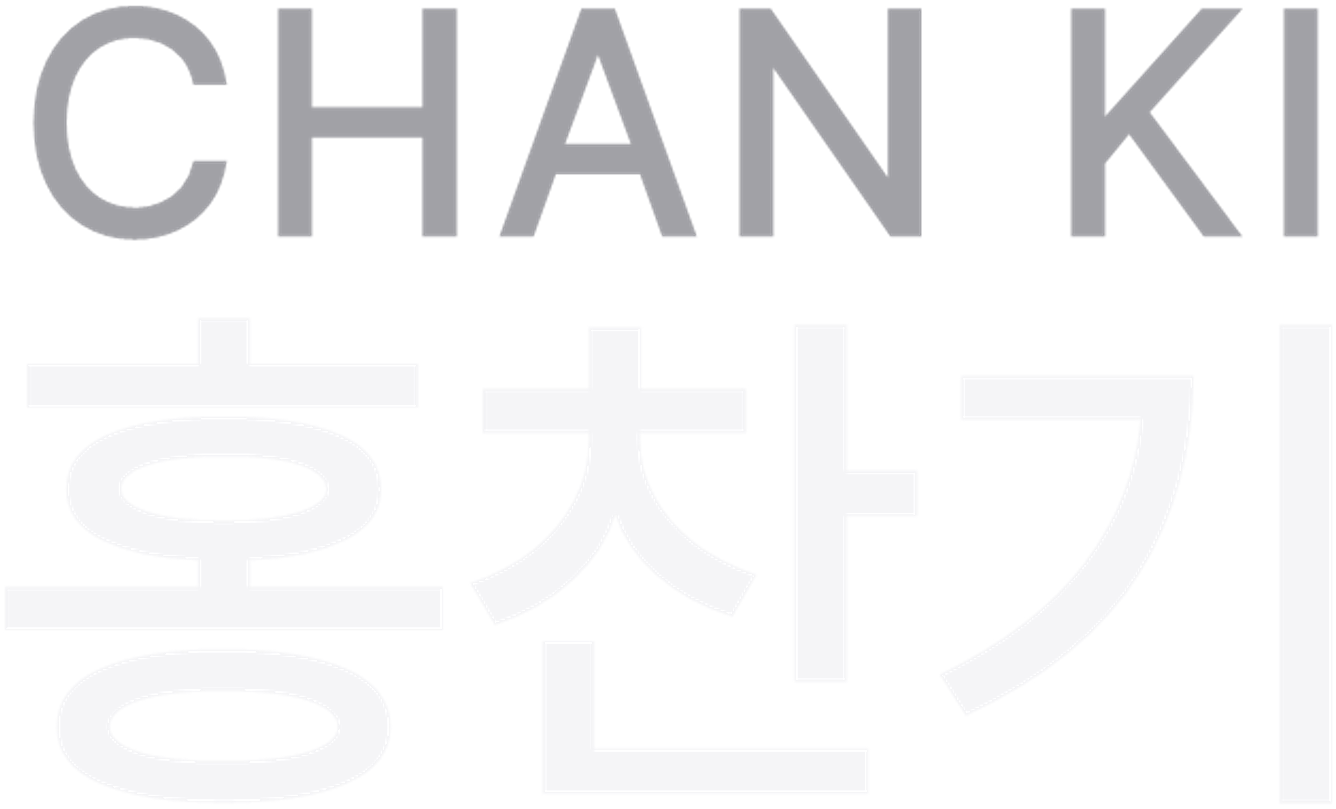
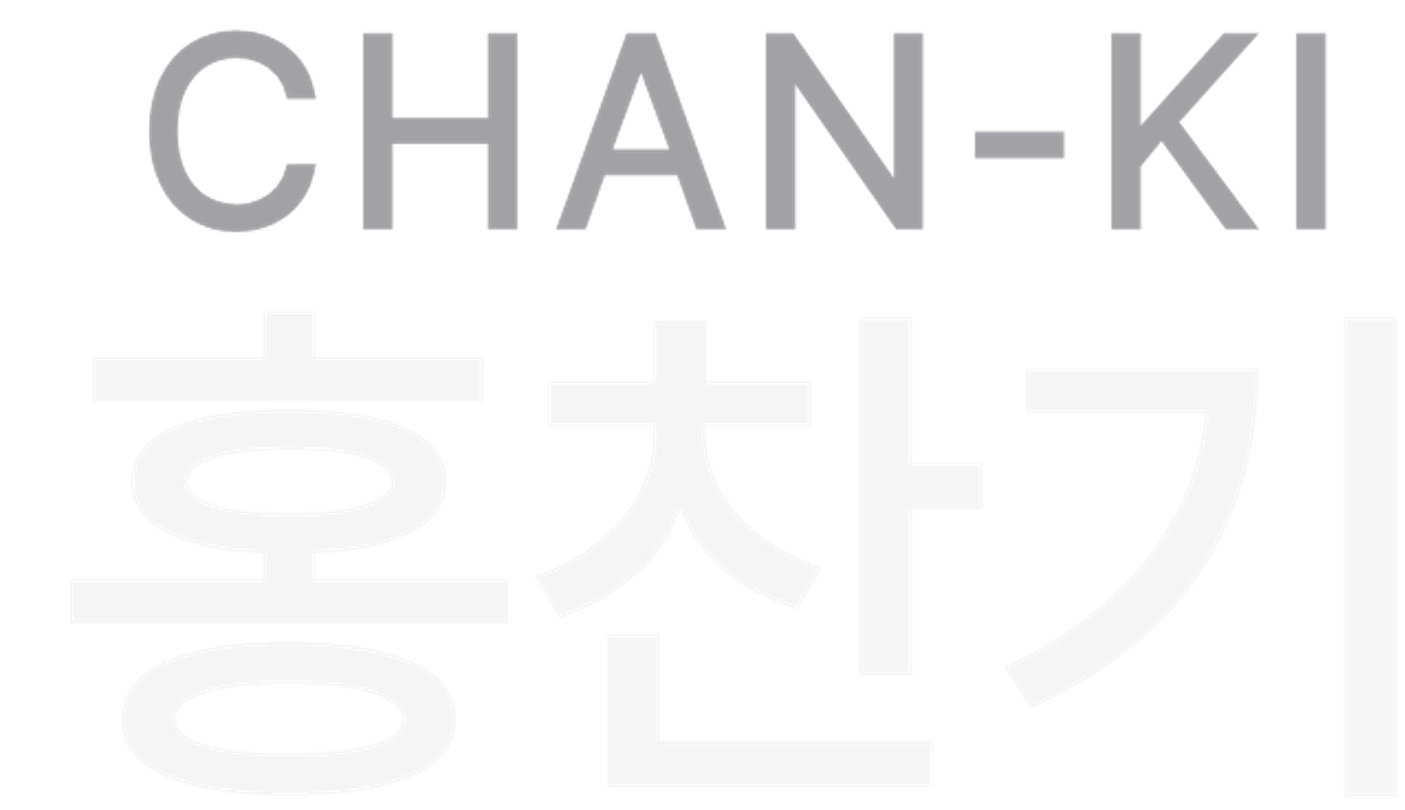
인사말 이미지삭제, 인사말 추가 및 순서 변경

Changed region(s): [[0.491, 0.0, 1.0, 0.309], [0.0, 0.0, 0.491, 0.309], [0.4603, 0.2163, 0.491, 0.2472]]

diff --git a/src/page/Home.tsx b/src/page/Home.tsx
@@ -6,46 +6,44 @@ import { useState } from 'react';
 const hs = classNames.bind(styles);
 
 function Home({ headerGlobalNavHeight, headerLocalNavHeight }: { headerGlobalNavHeight: number; headerLocalNavHeight: number }) {
-  const hello = useRef<HTMLImageElement>(null); // "헬로컴포넌트"
-  const helloImg = useRef<HTMLImageElement>(null); // "안녕하세요"
-  const [helloImgStyleTag, setHelloImgStyleTag] = useState<undefined | string>(undefined); // "안녕하세요" 스타일 태그
-  const intro = useRef<HTMLImageElement>(null); // "프론트엔드+홍찬기"
-  const [introStyleTag, setIntroStyleTag] = useState<undefined | string>(undefined); // 인트로 스타일 태그
-  const profileImg = useRef<HTMLImageElement>(null); // "프로필사진"
-  const [profileImgStyleTag, setProfileImgStyleTag] = useState<undefined | string>(undefined); // 프로필사진 스타일 태그
+  const outlineProfile = useRef<HTMLImageElement>(null); // 프로필랩
+  const outlineProfileName = useRef<HTMLImageElement>(null); // 프로필이름
+  const [outlineProfileNameStyle, setOutlineProfileNameStyle] = useState<undefined | string>(undefined); // 프로필이름 스타일
+  const outlineProfileImg = useRef<HTMLImageElement>(null); // 프로필사진
+  const [outlineProfileImgStyle, setOutlineProfileImgStyle] = useState<undefined | string>(undefined); // 프로필사진 스타일
+  const [outlineMantraTitleStyle, setOutlineMantraTitleStyle] = useState<undefined | string>(undefined);
+  const [outlineMantraExplanationStyle, setOutlineMantraExplanationStyle] = useState<undefined | string>(undefined);
 
   useEffect(() => {
     const helloMovingEffect = () => {
-      if (hello.current && helloImg.current && profileImg.current && intro.current) {
-        const helloHeight = headerGlobalNavHeight + headerLocalNavHeight + hello.current.offsetHeight - window.innerHeight; // hello컴포넌트가 끝나는 지점까지의 스크롤롤 높이
-        if (window.scrollY < helloHeight * 0.1) {
-          helloImg.current.style.top = `${(window.innerHeight - helloImg.current.offsetHeight) / 2}px`;
-          intro.current.style.width = `${profileImg.current.offsetWidth}px`;
-          intro.current.style.bottom = `-${intro.current.offsetHeight}px`;
-          setHelloImgStyleTag('active-one');
-          setProfileImgStyleTag(undefined);
-          setIntroStyleTag(undefined);
-        } else if (window.scrollY >= helloHeight * 0.1 && window.scrollY < helloHeight * 0.5) {
-          helloImg.current.style.top = `${(window.innerHeight - helloImg.current.offsetHeight) / 2}px`;
-          intro.current.style.width = `${profileImg.current.offsetWidth}px`;
-          intro.current.style.bottom = `-${intro.current.offsetHeight}px`;
-          setHelloImgStyleTag('active-two');
-          setProfileImgStyleTag(undefined);
-          setIntroStyleTag(undefined);
-        } else if (window.scrollY >= helloHeight * 0.5 && window.scrollY < helloHeight) {
-          helloImg.current.style.top = `${(window.innerHeight - helloImg.current.offsetHeight) / 2}px`;
-          intro.current.style.width = `${profileImg.current.offsetWidth}px`;
-          intro.current.style.bottom = `${profileImg.current.offsetHeight * 0.6}px`;
-          setHelloImgStyleTag(undefined);
-          setProfileImgStyleTag('active');
-          setIntroStyleTag('active');
-        } else if (window.scrollY >= helloHeight) {
-          helloImg.current.style.top = `${(window.innerHeight - helloImg.current.offsetHeight) / 2}px`;
-          intro.current.style.width = `${profileImg.current.offsetWidth}px`;
-          intro.current.style.bottom = `-${intro.current.offsetHeight}px`;
-          setHelloImgStyleTag(undefined);
-          setProfileImgStyleTag(undefined);
-          setIntroStyleTag(undefined);
+      if (outlineProfile.current && outlineProfileImg.current && outlineProfileName.current) {
+        const homeOutlineHeight = headerGlobalNavHeight + headerLocalNavHeight + outlineProfile.current.offsetHeight - window.innerHeight; // outline__profile 높이
+        if (window.scrollY < homeOutlineHeight * 0.1) {
+          outlineProfileName.current.style.width = `${outlineProfileImg.current.offsetWidth}px`;
+          outlineProfileName.current.style.bottom = `-${outlineProfileName.current.offsetHeight}px`;
+          setOutlineProfileImgStyle('active-one');
+          setOutlineProfileNameStyle(undefined);
+        } else if (window.scrollY >= homeOutlineHeight * 0.1 && window.scrollY < homeOutlineHeight) {
+          outlineProfileName.current.style.width = `${outlineProfileImg.current.offsetWidth}px`;
+          outlineProfileName.current.style.bottom = `${outlineProfileImg.current.offsetHeight * 0.7}px`;
+          setOutlineProfileImgStyle('active-one');
+          setOutlineProfileNameStyle('active-one');
+        } else if (window.scrollY >= homeOutlineHeight && window.scrollY < homeOutlineHeight + headerLocalNavHeight + outlineProfileName.current.offsetHeight) {
+          setOutlineProfileImgStyle('active-two');
+          setOutlineProfileNameStyle('active-two');
+          setOutlineMantraTitleStyle(undefined);
+          setOutlineMantraExplanationStyle(undefined);
+        } else if (
+          window.scrollY >= homeOutlineHeight + headerLocalNavHeight + outlineProfileName.current.offsetHeight &&
+          window.scrollY < homeOutlineHeight + headerLocalNavHeight + outlineProfileImg.current.offsetHeight + 300
+        ) {
+          setOutlineProfileImgStyle('active-three');
+          setOutlineMantraTitleStyle('active');
+          setOutlineMantraExplanationStyle('active');
+        } else if (window.scrollY >= homeOutlineHeight + headerLocalNavHeight + outlineProfileImg.current.offsetHeight + 300) {
+          setOutlineProfileImgStyle('active-three');
+          setOutlineMantraTitleStyle(undefined);
+          setOutlineMantraExplanationStyle(undefined);
         }
       }
     };
@@ -59,15 +57,33 @@ function Home({ headerGlobalNavHeight, headerLocalNavHeight }: { headerGlobalNav
   return (
     <>
       <div className={hs('home')}>
-        <div className={hs('home__hello')} ref={hello}>
-          <img className={hs('home__hello--img', helloImgStyleTag)} ref={helloImg} src='/img/Home__hello.png' alt='say-hello' />
-          <div className={hs('home__hello--intro', introStyleTag)} ref={intro}>
-            <img className={hs('home__hello--intro-frontend')} src='/img/frontend.png' alt='front-end-dev' />
-            <img className={hs('home__hello--intro-name')} src='/img/name.png' alt='my-name-chanki' />
+        <article className={hs('home__outline')}>
+          <div className={hs('outline__profile')} ref={outlineProfile}>
+            <div className={hs('outline__profile--name', outlineProfileNameStyle)} ref={outlineProfileName}>
+              <img src='/img/frontend.png' alt='front-end-dev' />
+              <img src='/img/name.png' alt='my-name-chanki' />
+            </div>
+            <img className={hs('outline__profile--img', outlineProfileImgStyle)} ref={outlineProfileImg} src='/img/profile.png' alt='profile-of-me' />
           </div>
-          <img className={hs('home__profile--img', profileImgStyleTag)} ref={profileImg} src='/img/profile.png' alt='profile-of-me' />
-        </div>
-        <article>
+          <div className={hs('outline__mantra')}>
+            <div className={hs('outline__mantra--title', outlineMantraTitleStyle)}>
+              <div>섬세함. 빠른 습득력.</div>
+              <div>몰두하는 것을 즐깁니다.</div>
+            </div>
+            <div className={hs('outline__mantra--explanation', outlineMantraExplanationStyle)}>
+              프론트엔드 개발은 사용자와 직접 대면하는 것이라고 믿습니다. 섬세하게 구현하고 변하는 트렌드와 기술을 빠르게 습득해 최상의 결과물을 만들기 위해 노력합니다. 모든
+              사용자가 직관적으로 사용하고, 편안함을 느끼면 좋겠습니다.
+            </div>
+          </div>
+        </article>
+        <article className={hs('home__projects')}>
+          <article>포트폴리오페이지(개인)</article>
+          <article>빵돌이(팀)</article>
+          <article>식선비(개인)</article>
+          <article>호사로운(팀)</article>
+          <article>VanilaJs호사로운(팀)</article>
+        </article>
+        <article className={hs('home__informations')}>
           <div>
             <div>이름</div>
             <div>홍찬기</div>
@@ -80,13 +96,15 @@ function Home({ headerGlobalNavHeight, headerLocalNavHeight }: { headerGlobalNav
             <div>카카오톡</div>
             <div>오픈챗팅링크</div>
           </div>
+          <div>벨로그</div>
+          <div>깃헙</div>
           <div>
             <div>메일</div>
-            <div>bom8018@naver.com</div>
+            <div>coldair426@gmail.com</div>
           </div>
           <div>
             <div>학력</div>
-            <div>강원대학교</div>
+            <div>강원대학교(춘천)</div>
           </div>
         </article>
       </div>

diff --git a/src/style/Home.module.scss b/src/style/Home.module.scss
@@ -1,55 +1,90 @@
 @import '_utilities.scss';
 
-.home__hello {
+.outline__profile {
+  position: relative;
   display: flex;
   flex-direction: column;
   align-items: center;
   width: 100%;
-  height: 360vh;
+  height: 200vh;
   overflow: hidden;
-  .home__hello--img {
-    position: fixed;
-    opacity: 0;
-    width: 21vw;
-    transition: width 0.5s, opacity 0.5s;
-    transition-timing-function: ease;
-  }
-  .home__hello--img.active-one {
-    opacity: 1;
-    width: 21vw;
-  }
-  .home__hello--img.active-two {
-    opacity: 1;
-    width: 68vw;
-  }
-  .home__hello--intro {
+  .outline__profile--name {
     position: fixed;
     opacity: 0;
     display: flex;
     flex-direction: row;
-    align-items: flex-end;
+    align-items: center;
     justify-content: space-between;
     transition: bottom 0.5s, opacity 0.5s;
     transition-timing-function: ease;
-    .home__hello--intro-frontend {
-      height: 26vh;
+    &.active-one {
+      opacity: 1;
     }
-    .home__hello--intro-name {
+    &.active-two {
+      position: absolute;
+      opacity: 1;
+    }
+    & > img {
       height: 26vh;
     }
   }
-  .home__hello--intro.active {
-    opacity: 1;
-  }
-  .home__profile--img {
+  .outline__profile--img {
     position: fixed;
     bottom: 0;
-    height: 90vh;
+    height: 80vh;
+    max-width: 980px;
     opacity: 0;
     transition: opacity 0.7s;
     transition-timing-function: ease;
+    &.active-one {
+      opacity: 1;
+    }
+    &.active-two {
+      position: absolute;
+      opacity: 1;
+    }
+    &.active-three {
+      position: absolute;
+      opacity: 0;
+    }
   }
-  .home__profile--img.active {
-    opacity: 1;
+}
+.outline__mantra {
+  display: flex;
+  flex-direction: column;
+  align-items: center;
+  .outline__mantra--title {
+    opacity: 0;
+    width: 100%;
+    max-width: 980px;
+    text-align: center;
+    font-size: 85px;
+    font-weight: 900;
+    margin-top: 100px;
+    transition: opacity 0.7s;
+    transition-timing-function: ease;
+    div + div {
+      margin-top: 20px;
+    }
+    &.active {
+      opacity: 1;
+    }
+  }
+  .outline__mantra--explanation {
+    opacity: 0;
+    color: $본문글씨;
+    margin-top: 35px;
+    width: 100%;
+    max-width: 980px;
+    text-align: center;
+    font-size: 30px;
+    font-weight: 900;
+    line-height: 38px;
+    word-break: keep-all;
+    transition: opacity 0.7s;
+    transition-timing-function: ease;
+    &.active {
+      opacity: 1;
+    }
   }
 }

diff --git a/src/component/Header.tsx b/src/component/Header.tsx
@@ -87,7 +87,9 @@ function Header({
           <button onClick={scrollToTop}>
             <div>
               <div className={hs('header__local-navigation--sub-title')}>Front-End Dev</div>
-              <div className={hs('header__local-navigation--title')}>홍찬기</div>
+              <div className={hs('header__local-navigation--title')}>
+                홍찬기<span>(Chanki)</span>
+              </div>
             </div>
           </button>
           <div className={hs('header__local-navigation--contents-wrapper')}>
@@ -98,10 +100,7 @@ function Header({
               <div>프로젝트</div>
             </button>
             <button>
-              <div>사이트</div>
-            </button>
-            <button>
-              <div>사이트</div>
+              <div>정보</div>
             </button>
           </div>
         </div>

diff --git a/src/style/Header.module.scss b/src/style/Header.module.scss
@@ -120,11 +120,20 @@
       .header__local-navigation--title {
         font-size: 21px;
         font-weight: 900;
-        letter-spacing: 15px;
+        letter-spacing: 1px;
         margin-bottom: 12px;
+        & > span {
+          font-size: 18px;
+          font-weight: 900;
+          letter-spacing: 1px;
+        }
         @include header-mobile {
-          letter-spacing: 9px;
+          letter-spacing: 0px;
           font-size: 19px;
+          & > span {
+            letter-spacing: 0px;
+            font-size: 16px;
+          }
         }
       }
     }
